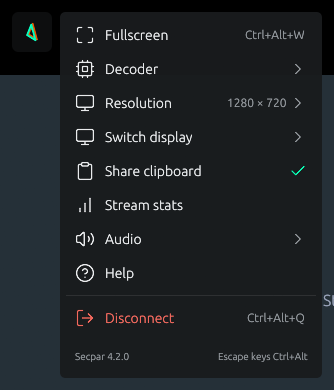
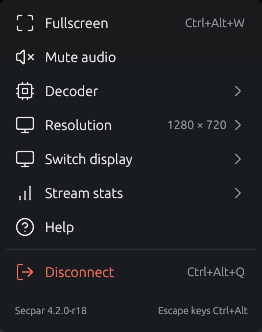
Help: resolve the r19 merge, new stream menu picture
The r19 merge left conflict markers in the help page. Main's newer page is kept, with the
stream menu as it is now and a note that closing the window ends a stream.

diff --git a/cloud/site/public/help/index.html b/cloud/site/public/help/index.html
@@ -1,11 +1,10 @@
 <!doctype html>
-<<<<<<< HEAD
 <html lang="en"><head><meta charset="utf-8"><meta name="viewport" content="width=device-width,initial-scale=1"><title>Secpar help</title><meta name="description" content="Connect to your computers, add friends, use the stream menu and fix common problems in Secpar."><link rel="canonical" href="https://secpar.win/help/"><link rel="icon" href="/assets/secpar-icon.svg" type="image/svg+xml"><link rel="stylesheet" href="/style.css"><link rel="stylesheet" href="/help/help.css"></head>
 <body><a class="skip" href="#main">Skip to content</a><header class="nav wrap"><a class="brand" href="/" aria-label="Secpar home"><img src="/assets/secpar-wordmark.svg" width="151" height="36" alt="Secpar"></a><nav aria-label="Main navigation"><a href="/blog/">Blog</a><a href="/help/" aria-current="page">Help</a><a href="/#downloads">Download</a></nav></header>
 <main id="main" class="wrap help-layout"><aside><h1>Help</h1><nav aria-label="Help topics"><a href="#connect">Connect</a><a href="#friends">Friends</a><a href="#stream">During a stream</a><a href="#files">Files and clipboard</a><a href="#android-tv">Android TV</a><a href="#power">Power</a><a href="#this-computer">This computer</a><a href="#linux-hosting">Linux hosting</a><a href="#playback">Playback</a><a href="#updates">Updates and errors</a></nav></aside><article>
 <section id="connect"><h2>Connect to your computer</h2><p>Install Secpar on each computer and on your phone, and sign in with the same account on all of them. Each computer you sign in on appears under <strong>Computers</strong> on your other devices, with a still of its screen. Select a computer to connect. Under each computer you see who is using it now. The list updates by itself as computers come online and people connect.</p><figure class="shot"><img src="/assets/help/computers.png" width="800" height="600" loading="lazy" alt="Computers tab with four tiles: two of your computers, one with a still of its screen, and two friends' computers. Below them, who is connected to this computer and its paired devices"><figcaption>Computers. Your computers come first, then friends' computers with the friend's username.</figcaption></figure><p>Windows and Linux use one app to host and to connect. The Android app connects to computers; it does not host. Up to three devices can stream from one computer at the same time.</p><p>Secpar connects directly when it can, on your home network or across the internet, and goes through Secpar's relay when a direct route is blocked.</p><p>Below your computers, <strong>Connected to this computer</strong> shows who is using it now, with <strong>Disconnect</strong> to end a session. <strong>Paired devices</strong> lists the devices that may use this computer; click its title to fold it away. <strong>Remove</strong> stops a device connecting at all.</p></section>
 <section id="friends"><h2>Friends</h2><p>Your username is on the <strong>Friends</strong> tab. To add someone, type their username and select <strong>Add</strong>. They accept the request on their side. Friends are kept on your account, so they show on every device you sign in on.</p><p>For each friend you choose:</p><ul><li><strong>Ask first</strong> or <strong>Any time</strong>: whether you approve each connection.</li><li>Keyboard, mouse and files: the three buttons beside the friend. A highlighted button is allowed. Files lets the friend browse your files, not only send to them. Keyboard and mouse changes reach a friend who is already connected within a few seconds.</li></ul><figure class="shot"><img src="/assets/help/friends.png" width="800" height="600" loading="lazy" alt="Friends tab showing a friend with the Ask first menu and keyboard, mouse and files buttons"><figcaption>Friends. The three buttons after Ask first are keyboard, mouse and files.</figcaption></figure><p>Your friends' computers appear under Computers. Select one to connect: Secpar asks for whatever its owner allows. With Ask first, the owner approves once, from the notification or from the Secpar window. When a friend starts using your computer, your desktop tells you. Both computers need Secpar 4.0.12 or later and must be signed in to their owners' accounts. If a friend turns off previews, you see their computer without a still of its screen.</p></section>
-<section id="stream"><h2>During a stream</h2><p>On a computer, the stream opens in a window shaped like the remote screen at half its size, and the window goes back to its own size when you disconnect. Shortcuts use the release keys set in <strong>Settings › Streaming</strong> (Ctrl + Alt unless you change them):</p><ul><li>Release keys + W: full screen or window.</li><li>Release keys + S: stream menu. You can also select the Secpar triangle at the top left of the stream.</li><li>Release keys + Q: disconnect.</li></ul><p>In full screen the mouse and keyboard go to the remote computer. <strong>Send system shortcuts</strong> decides whether keys such as Alt + Tab go there too.</p><p>When the computer has more than one screen, <strong>Switch display</strong> in the stream menu picks the one you see. On a computer, <strong>Open in a new window</strong> under it shows another screen in a second window, so you can see two at once.</p><p>On Android, the floating button opens the stream menu: keyboard, trackpad mode, controllers and disconnect. A docked keyboard and mouse work directly.</p><figure class="shot"><img src="/assets/help/stream-menu.png" width="334" height="390" loading="lazy" alt="Stream menu with Fullscreen, Decoder, Resolution, Switch display, Share clipboard, Stream stats, Audio, Help and Disconnect"><figcaption>The stream menu on a computer.</figcaption></figure></section>
+<section id="stream"><h2>During a stream</h2><p>On a computer, the stream opens in a window shaped like the remote screen at half its size, and the window goes back to its own size when you disconnect. Shortcuts use the release keys set in <strong>Settings › Streaming</strong> (Ctrl + Alt unless you change them):</p><ul><li>Release keys + W: full screen or window.</li><li>Release keys + S: stream menu. You can also select the Secpar triangle at the top left of the stream.</li><li>Release keys + Q: disconnect.</li></ul><p>In full screen the mouse and keyboard go to the remote computer. <strong>Send system shortcuts</strong> decides whether keys such as Alt + Tab go there too.</p><p>When the computer has more than one screen, <strong>Switch display</strong> in the stream menu picks the one you see. On a computer, <strong>Open in a new window</strong> under it shows another screen in a second window, so you can see two at once.</p><p>On Android, the floating button opens the stream menu: keyboard, trackpad mode, controllers and disconnect. A docked keyboard and mouse work directly.</p><figure class="shot"><img src="/assets/help/stream-menu.png" width="262" height="332" loading="lazy" alt="Stream menu with Fullscreen, Mute audio, Decoder, Resolution, Switch display, Stream stats, Help and Disconnect"><figcaption>The stream menu on a computer.</figcaption></figure><p><strong>Stream stats</strong> turns the stats bar on or off and shows the sound details. Closing the window on a computer ends the stream.</p></section>
 <section id="files"><h2>Files and clipboard</h2><p>Select the folder button on a computer's tile to browse its files and copy files either way. You can also drop files onto that window to send them.</p><figure class="shot"><img src="/assets/help/files.png" width="800" height="600" loading="lazy" alt="Files window listing folders on a computer, with two downloads in progress and an Upload files button"><figcaption>Files. Downloads save to the folder shown at the bottom; Change picks another.</figcaption></figure><p>Text copied on one device can be pasted on the other while you are connected. Turn this off with <strong>Share clipboard</strong> in Settings › Streaming on the connecting device, or in Settings › This computer on the host.</p></section>
 <section id="android-tv"><h2>Android TV</h2><p>Secpar runs on Android TV and Chromecast with Google TV. It is the same app as on phones, from the same download. Open the <code>.apk</code> on the TV with an app that can install files, such as a file manager, and allow installing from that app when the TV asks. Secpar then appears on the TV home screen. Older Chromecasts without a remote cannot run apps.</p><p>Move with the arrows on the remote. The selected item has a green outline, and a selected computer card is outlined as a whole. In a stream, open the stream menu with the Secpar button at the top left. While it is open, the arrows move through it and Back closes it.</p><p>The remote moves through Secpar but does not control the computer well. Pair a Bluetooth keyboard and mouse or a controller with the TV for that.</p></section>
 <section id="power"><h2>Power</h2><p>From Android, open the menu on a computer's tile to lock it, put it to sleep, sign out, restart or shut it down. This works on Windows and Linux computers you own. Friends cannot use it.</p></section>
@@ -13,18 +12,4 @@
 <section id="linux-hosting"><h2>Linux hosting</h2><p>Keep the Linux computer signed in to its desktop. The first time a device connects, your desktop asks whether to allow screen sharing and remote control. On KDE Plasma this is <strong>Remote Control Requested</strong>. Select <strong>Allow</strong>, with <strong>Allow the application to do this without asking next time</strong> ticked, so later connections do not wait for it.</p><p>When the Linux computer is locked, the lock screen still shows and you can type your password from your own devices. Friends cannot use the lock screen. This needs write access to <code>/dev/uinput</code>, the same access controllers use.</p><p>The AppImage runs on most x86-64 distributions. Run it once with <code>--install</code> to add Secpar to your app menu. Router ports (UPnP) are available on Windows only.</p></section>
 <section id="playback"><h2>Choppy video or no sound</h2><p>In <strong>Settings › Streaming</strong>, lower the resolution, frame rate or bitrate. If video stutters on a computer with an older graphics card, set <strong>Decoder</strong> to Software.</p><figure class="shot"><img src="/assets/help/settings-streaming.png" width="800" height="600" loading="lazy" alt="Settings, Streaming: resolution, frame rate, bitrate, decoder, Full colour, sound and clipboard, and keyboard options"><figcaption>Settings › Streaming.</figcaption></figure><p><strong>Full colour (4:4:4)</strong> keeps coloured text and thin lines sharp. It sends about twice the video, so turn it off on a slow connection. Both devices need Secpar 4.2.0 or later.</p><p>If there is no sound, check that <strong>Play sound here</strong> is on and that the right speakers are selected in your system's sound settings.</p></section>
 <section id="updates"><h2>Updates and errors</h2><p>The download button at the top of the app shows when an update is available. Opening it checks again, and Secpar also checks every hour. Updating Windows restarts hosting, which ends any stream from that computer.</p><p>When a connection fails, the message shows above the computers. The copy button next to it copies the details. Include them, the app version and both devices' systems when you <a href="https://github.com/modnite/Secpar/issues">report an issue ↗</a>. Do not share passwords.</p><p><a href="https://github.com/modnite/Secpar/releases">Releases and checksums ↗</a></p></section>
-=======
-<html lang="en"><head><meta charset="utf-8"><meta name="viewport" content="width=device-width,initial-scale=1"><title>Secpar help</title><meta name="description" content="Connect a computer, use the stream menu, share text and troubleshoot Secpar."><link rel="canonical" href="https://secpar.win/help/"><link rel="icon" href="/assets/secpar-icon.svg" type="image/svg+xml"><link rel="stylesheet" href="/style.css"><link rel="stylesheet" href="/help/help.css"></head>
-<body><a class="skip" href="#main">Skip to content</a><header class="nav wrap"><a class="brand" href="/" aria-label="Secpar home"><img src="/assets/secpar-wordmark.svg" width="151" height="36" alt="Secpar"></a><nav aria-label="Main navigation"><a href="/help/" aria-current="page">Help</a><a href="https://accounts.secpar.win/auth/sign-in">App account</a><a href="/#downloads">Download</a></nav></header>
-<main id="main" class="wrap help-layout"><aside><h1>Help</h1><nav aria-label="Help topics"><a href="#connect">Connect</a><a href="#stream-menu">Stream menu</a><a href="#mouse-keyboard">Mouse and keyboard</a><a href="#clipboard">Clipboard</a><a href="#playback">Playback</a><a href="#linux-hosting">Linux hosting</a><a href="#network">Connection routes</a><a href="#updates">Updates and errors</a></nav></aside><article>
-<section id="connect"><h2>Connect to your computer</h2><p>Install Secpar on both devices. In the app, sign in to the same app account on both. The app account links your computers and friends. There is no login on this website. Select the computer you want to use and connect. Android connects to computers; it does not host.</p><p>To pair without an account, open <strong>Hosting → Pair a device</strong> on the host. Scan its code or paste its pairing link on the client.</p><p>Windows and Linux use one application for hosting and connecting. macOS is in development.</p></section>
-<section id="friends"><h2>Add a friend</h2><p>Every app account has a username. The Friends tab shows yours as <strong>You are @username</strong>. Tell your friend that name. To add someone, open Friends, type their username and select Add. Capital letters do not matter, and a leading @ is fine. They see your request and choose whether to accept it. A friend cannot use your computer until you approve a connection.</p><p>A username has 3 to 30 letters, numbers or underscores. If a name you want is taken, pick another when you sign up. GitHub sign-in turns a hyphen into an underscore and adds a number when the name is taken.</p></section>
-<section id="stream-menu"><h2>Stream menu</h2><p>Click or tap the translucent triangle at the top left of the stream. It opens the controls in windowed and fullscreen views. Click outside the menu to close it.</p><p>Desktop controls include fullscreen, mute, display selection when the host has several displays, stream stats with audio details, help and disconnect. Closing the window during a stream disconnects it. Android also has keyboard controls, trackpad mode and picture in picture.</p><h3>Read the stream details</h3><p>Resolution and frame rate show what the host negotiated. The decoder label shows the path actually producing video. Direct or Relay identifies the current connection route. Desktop network figures show round-trip delay, received bitrate and completed video frames per second. Android exposes its available timing figures under Stream stats.</p><p>A high received frame rate with choppy display points toward decoding or display work. A low received rate can also come from the host, packet loss or an idle desktop. Static screens do not need a constant stream of new frames.</p></section>
-<section id="mouse-keyboard"><h2>Mouse and keyboard</h2><p>Desktop: the mouse moves freely in a window. Fullscreen captures it. Move to the top-left menu to use local controls. Press <kbd>Alt</kbd> + <kbd>F</kbd> to switch between fullscreen and a window.</p><p>Android: a docked mouse stays free to leave the Secpar window. A connected keyboard works directly. Open the stream menu if you need the on-screen keyboard or want to use the phone as a trackpad.</p><p>Copy, cut and paste use <kbd>Ctrl</kbd> + <kbd>C</kbd>, <kbd>Ctrl</kbd> + <kbd>X</kbd> and <kbd>Ctrl</kbd> + <kbd>V</kbd>. Click the remote picture first if a local menu or text field has keyboard focus.</p></section>
-<section id="clipboard"><h2>Share text</h2><p>On the host, turn on <strong>Hosting → Share clipboard</strong>. On desktop clients, turn on <strong>Settings → Share text clipboard</strong>. Reconnect after changing client settings.</p><p>Copy text on one device and paste it on the other during the connection. Secpar does not replace the host clipboard with old client contents when a session starts. Clipboard changes received from the host are not echoed back.</p><p>Clipboard sharing currently transfers text up to 1 MB. Copying files or images through the clipboard is not supported by the desktop clients.</p></section>
-<section id="playback"><h2>Choppy video or silent audio</h2><p>On Linux, open the stream menu and select <strong>Decoder → Software</strong>. If this fixes playback, the hardware path is the problem. Automatic checks decode time during the actual stream and switches to software when the native decoder repeatedly falls behind.</p><p>Lower resolution or frame rate if decoding still cannot keep up. Lower the bitrate if the connection cannot carry the stream.</p><p>Linux audio follows the desktop PulseAudio or PipeWire sound service, with ALSA as a fallback. Check the selected speakers in the desktop volume panel. Open <strong>Stream stats</strong> in the stream menu if sound is missing. The packet and decoder counters help show whether audio reaches the client.</p></section>
-<section id="linux-hosting"><h2>Host from KDE Wayland</h2><p>Keep the Linux computer signed in to its desktop session. Connect from another device, then select a monitor and allow keyboard and pointer access in KDE's sharing dialog.</p><p>If the client disconnects after consent, copy the error shown above its computer list. The portal can grant access before an encoder, PipeWire stream or audio source fails. An optional audio-source error should leave video connected.</p><p>Linux hosting currently uses LAN connections. Remote Linux hosting is still being added. A headless OMV server is not a substitute for a logged-in KDE desktop session.</p></section>
-<section id="network"><h2>Connection routes</h2><p>For computers on your account, Secpar tries the saved LAN addresses first. Windows hosts with Connect anywhere can use the relay when a direct control connection is unavailable. Streaming tries authenticated direct UDP; TURN carries media when direct routing fails.</p><p>Gigabit internet does not guarantee a low-delay route. Test both devices on Ethernet when possible. On office networks, UDP filtering or an enforced relay can affect streaming even when downloads are fast.</p></section>
-<section id="updates"><h2>Updates and errors</h2><p>Open Check for updates in the app. Download becomes available when there is a newer package for that device. Installing a Windows host update can interrupt connected clients.</p><p>For a failed connection, use <strong>Copy error</strong>. For audio, use <strong>Copy details</strong> in the stream menu. Share the app version, host and client operating systems, and the step that failed. Keep account credentials and pairing links private.</p><p><a href="https://github.com/modnite/Secpar/releases">Releases and checksums ↗</a> · <a href="https://github.com/modnite/Secpar/issues">Report an issue ↗</a></p></section>
->>>>>>> origin/secpar-4
 </article></main><footer class="wrap"><a href="/">Secpar</a><p><a href="https://github.com/modnite/Secpar">Source</a> · GPL-3.0</p></footer></body></html>
